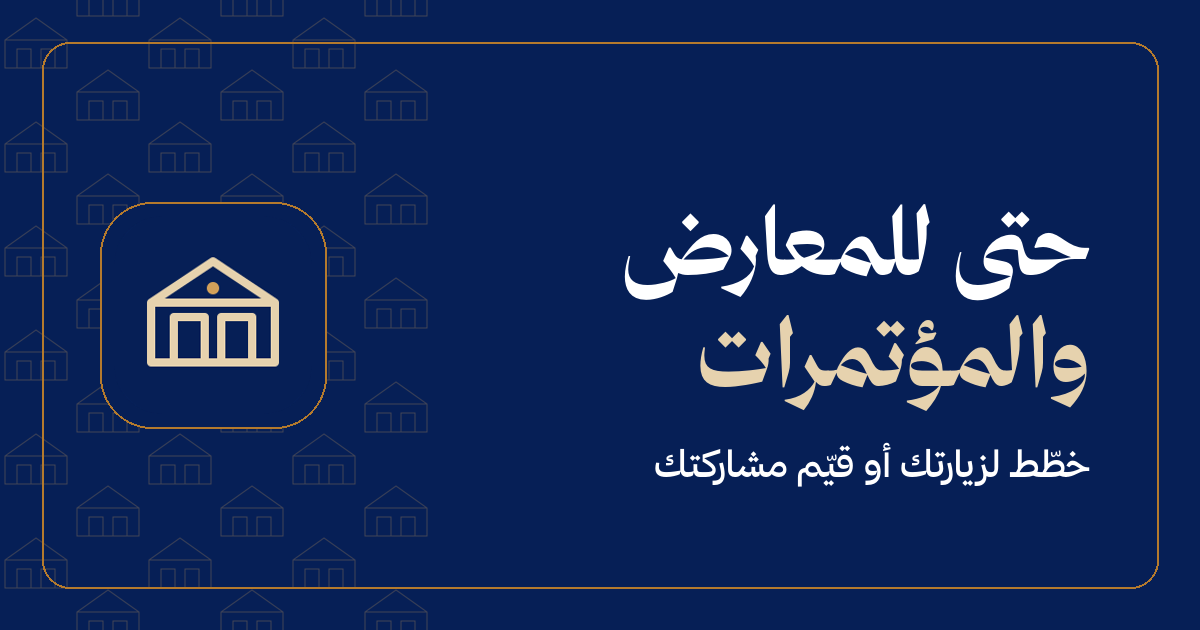
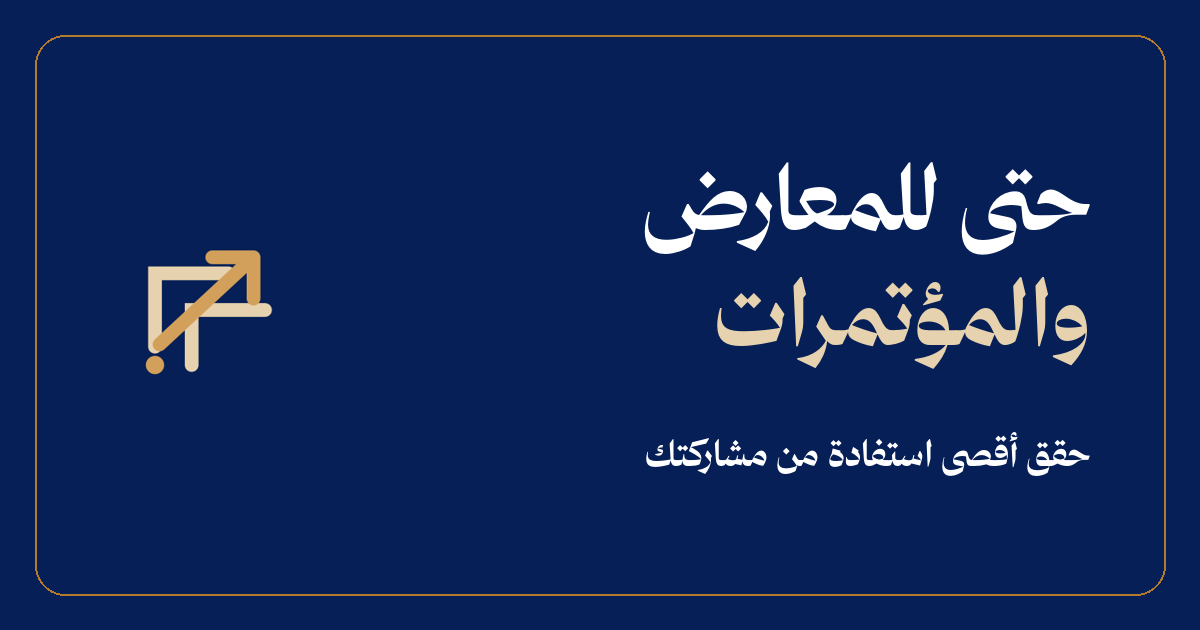
Center exhibitions platform on visitor and exhibitor outcomes with visual identity

diff --git a/exhibitions/index.html b/exhibitions/index.html
@@ -5,35 +5,32 @@
 <meta name="viewport" content="width=device-width, initial-scale=1">
 <meta name="theme-color" content="#061f56">
 <title>حتى للمعارض والمؤتمرات</title>
-<meta name="description" content="اكتشف المعارض والمؤتمرات، قيّم الزيارة أو المشاركة كعارض، وجهز خطتك قبل الفعالية.">
+<meta name="description" content="حقق أقصى استفادة من المعارض والمؤتمرات. قيّم مشاركتك زائرًا أو عارضًا وحوّل النتيجة إلى خطة عمل.">
 <meta property="og:title" content="حتى للمعارض والمؤتمرات">
 <meta property="og:description" content="من اختيار الفعالية إلى متابعة نتائجها.">
 <meta property="og:url" content="https://almohammdin.github.io/services/exhibitions/">
-<meta property="og:image" content="https://almohammdin.github.io/services/exhibitions/social.png">
+<meta property="og:image" content="https://almohammdin.github.io/services/exhibitions/social.png?v=2">
 <meta name="twitter:card" content="summary_large_image">
-<meta name="twitter:image" content="https://almohammdin.github.io/services/exhibitions/social.png">
+<meta name="twitter:image" content="https://almohammdin.github.io/services/exhibitions/social.png?v=2">
 <link rel="icon" href="logo.svg">
 <link rel="stylesheet" href="../assets/hatta/services.css">
-<link rel="stylesheet" href="style.css">
-<script src="app.js" defer></script>
+<link rel="stylesheet" href="style.css?v=2">
+<script src="app.js?v=2" defer></script>
 </head>
 <body>
 <a class="skip-link" href="#main">انتقل للمحتوى</a>
-<header class="site-header"><div class="shell header-inner"><a href="../" aria-label="حتى لحلول الأعمال"><img src="../assets/hatta/logo.webp" alt="حتى لحلول الأعمال" width="104"></a><nav aria-label="أقسام المنصة"><a href="#calendar">التقويم</a><a href="#assessment">التقييم</a><a href="#knowledge">مركز المعرفة</a><a href="#toolkit">الأدوات</a></nav></div></header>
+<header class="site-header"><div class="shell header-inner"><a href="../" aria-label="حتى لحلول الأعمال"><img src="../assets/hatta/logo.webp" alt="حتى لحلول الأعمال" width="104"></a><nav aria-label="أقسام المنصة"><a href="#paths">ابدأ من هنا</a><a href="#assessment">تقييم المشاركة</a><a href="#knowledge">مركز المعرفة</a><a href="#toolkit">الأدوات</a></nav></div></header>
 <main id="main">
 <div class="shell">
-<section class="intro">
-<div><div class="eyebrow">إحدى أدوات حتى</div><h1>حتى للمعارض<br>والمؤتمرات</h1><p>اختر الفعالية التي تخدم هدفك، وجهز خطتك قبل الحضور، وتابع النتائج بعد العودة.</p><a class="action primary" href="#calendar">استكشف التقويم ←</a></div>
-<div class="hero-art"><img src="logo.svg" width="154" height="154" alt=""><div>اختيار الفعالية <span>←</span> التخطيط <span>←</span> المتابعة</div></div>
-</section>
+<section class="intro"><div><div class="platform-sign"><img src="logo.svg" width="64" height="64" alt="شعار منصة حتى للمعارض والمؤتمرات"><span>حتى للمعارض والمؤتمرات</span></div><h1>كل مشاركة<br>تبدأ بهدف.</h1><p>حقق أقصى استفادة من المعارض والمؤتمرات. قيّم قرارك، جهز خطتك، وحوّل اللقاءات والمعرفة إلى نتائج.</p><a href="#paths" class="action primary">اختر مسار مشاركتك ←</a></div><div class="hero-art"><span class="eyebrow">رحلتك إلى مشاركة مثمرة</span><div class="journey"><div><b>01</b><span>قبل الفعالية<strong>هدف وقرار وخطة</strong></span></div><div><b>02</b><span>أثناء الفعالية<strong>لقاءات وتجارب ومعرفة</strong></span></div><div><b>03</b><span>بعد الفعالية<strong>متابعة وقياس النتائج</strong></span></div></div></div></section>
+<div class="path-heading" id="paths"><span class="eyebrow">ابدأ من هدف مشاركتك</span><h2>كيف ستشارك؟</h2><p>مساران يساعدانك على اتخاذ القرار وتجهيز خطة قابلة للتطبيق.</p></div>
 <div class="tiles roles">
-<article><span class="eyebrow">مسار الزائر</span><h2>خطّط لزيارتك</h2><p>قيّم الفعالية حسب هدفك، واختر الجهات والجلسات التي تستحق وقتك.</p><button class="action primary" data-start="visitor">ابدأ تقييم الزيارة ←</button></article>
-<article><span class="eyebrow">مسار العارض</span><h2>قيّم مشاركتك كعارض</h2><p>ادرس الجمهور والتكلفة، وقارن خيارات المشاركة قبل حجز الجناح.</p><button class="action secondary" data-start="exhibitor">ابدأ تقييم المشاركة ←</button></article>
+<article><img class="role-illustration" src="visitor.svg" alt="رسم زائر يراجع خطة لقاءاته"><span class="eyebrow">01 / الزائر</span><h2>استفد أكثر من زيارتك</h2><p>هل تستحق الفعالية وقتك وتكلفة رحلتك؟ اكتشف مدى ملاءمتها لهدفك وحدد أولويات الزيارة.</p><ul><li>تقييم ملاءمة الجهات والجلسات</li><li>تحديد ما يحتاج إلى تحقق</li><li>خطة قبل الزيارة وأثناءها وبعدها</li></ul><button class="action primary" data-start="visitor">حلّل مشاركتك زائرًا ←</button><small>5 أسئلة · نتيجة وخطة قابلة للمشاركة</small></article>
+<article><img class="role-illustration" src="exhibitor.svg" alt="رسم جناح معرض ومؤشرات نتائج المشاركة"><span class="eyebrow">02 / العارض</span><h2>اجعل مشاركتك مدروسة</h2><p>هل يناسبك حجز جناح؟ قيّم الجمهور والجاهزية والتكلفة، وقارن خيارات المشاركة.</p><ul><li>تقييم فرص الوصول إلى العملاء</li><li>حساب الصفقات اللازمة لتغطية التكلفة</li><li>خطوات لتحسين استعداد الفريق</li></ul><button class="action primary" data-start="exhibitor">حلّل مشاركتك عارضًا ←</button><small>5 أسئلة · توصية وحاسبة وخطة عمل</small></article>
 </div>
-<section id="calendar"><div class="eyebrow">01 / اكتشاف</div><h2>تقويم الفعاليات والمناسبات</h2><p>اختيارات من السعودية والعالم. تحقق من موعد النسخة وشروط الدخول لدى المنظم.</p>
-<div class="filters"><label>البحث<input id="query" type="search" placeholder="الاسم أو القطاع أو المدينة"></label><label>النوع<select id="kind"><option value="">جميع الأنواع</option><option>معرض</option><option>مؤتمر</option><option>منتدى</option><option>ورشة عمل</option><option>مهرجان</option><option>مناسبة</option></select></label><label>الدولة<select id="country"><option value="">جميع الدول</option></select></label><label>الشهر<select id="month"><option value="">جميع الأشهر</option></select></label></div>
-<p id="calendar-count" role="status"></p><div class="tiles three" id="events"></div></section>
-<section id="assessment"><div class="eyebrow">02 / القرار والخطة</div><h2>مصفوفة الزيارة والمشاركة</h2><p>أجب عن 5 أسئلة حسب هدفك. تظهر ملاءمة الفعالية وتغطية الأدلة بشكل منفصل. تحفظ المسودة على هذا الجهاز.</p>
+<section class="visual-examples"><span class="eyebrow">من السؤال إلى خطوة عملية</span><h2>كيف تستفيد من النتيجة؟</h2><div class="tiles"><article><h3>صاحب مقهى يزور معرض معدات</h3><p>هدفه اختيار مورد. يبدأ بقائمة جهات، ثم يرتب اللقاءات، ويعود بعروض قابلة للمقارنة.</p><div class="example-flow"><span><b>5</b>موردين للمقارنة</span><span><b>3</b>لقاءات مستهدفة</span><span><b>2</b>عرضي سعر</span></div><button class="action secondary" data-demo="visitor">جرّب مثال الزائر ←</button></article><article><h3>شركة تبحث عن موزعين</h3><p>تراجع الجمهور والتكلفة قبل حجز الجناح، ثم تحدد الفرص التي تحتاج إلى تحقيقها.</p><div class="example-flow"><span><b>60,000</b>⃁ تكلفة مفترضة</span><span><b>4</b>صفقات للتعادل</span><span><b>20</b>فرصة مؤهلة</span></div><button class="action secondary" data-demo="exhibitor">جرّب مثال العارض ←</button></article></div><small>أمثلة تعليمية بافتراضات توضيحية. تتغير النتائج حسب بياناتك.</small></section>
+
+<section id="assessment"><div class="eyebrow">التقييم والخطة</div><h2>مصفوفة الزيارة والمشاركة</h2><p>أجب عن 5 أسئلة حسب هدفك. تظهر ملاءمة الفعالية وتغطية الأدلة بشكل منفصل. تحفظ المسودة على هذا الجهاز.</p>
 <div class="panel">
 <form id="wizard">
 <div class="filters"><label>صفة المشاركة<select id="role"><option value="visitor">زائر</option><option value="exhibitor">عارض</option></select></label><label>اسم الفعالية<input id="event-name" required maxlength="120" placeholder="مثال: معرض متخصص"></label><label>نطاق التقييم<input id="scope" maxlength="100" placeholder="الفعالية كاملة أو جزء من البرنامج"></label><label>هدف المشاركة<select id="goal"></select></label><label>رابط الفعالية <small>اختياري</small><input id="event-url" type="url" placeholder="https://"></label></div>
@@ -71,6 +68,22 @@
 <article><h3>تسجيل اللقاءات</h3><p>ZXing يقرأ رموز QR عبر المتصفح، وTesseract.js يستخرج النص من الصور. راجع أسماء الأشخاص والشركات بعد الاستخراج.</p><a href="https://github.com/zxing-js/browser">ZXing ↗</a> · <a href="https://github.com/naptha/tesseract.js">Tesseract.js ↗</a></article>
 <article><h3>متابعة الفرص</h3><p>حوّل نتائج اللقاءات إلى مهام في مسراح، أو استكشف selXP لتسجيل الفرص البيعية ومتابعتها ميدانيًا.</p><a href="https://almohammdin.github.io/Mesraah/">مسراح ↗</a> · <a href="https://selxp.com/">selXP ↗</a></article>
 </div></section>
-</div></main>
-<footer class="shell site-footer"><a href="../#tools">أدوات حتى ←</a><span>حتى لحلول الأعمال · نايف المحمدي</span></footer>
+<section id="calendar"><div class="eyebrow">مصادر مساندة للمشاركة</div><h2>تقويم الفعاليات والمناسبات</h2><p>اختيارات من السعودية والعالم. تحقق من موعد النسخة وشروط الدخول لدى المنظم.</p>
+<div class="filters"><label>البحث<input id="query" type="search" placeholder="الاسم أو القطاع أو المدينة"></label><label>النوع<select id="kind"><option value="">جميع الأنواع</option><option>معرض</option><option>مؤتمر</option><option>منتدى</option><option>ورشة عمل</option><option>مهرجان</option><option>مناسبة</option></select></label><label>الدولة<select id="country"><option value="">جميع الدول</option></select></label><label>الشهر<select id="month"><option value="">جميع الأشهر</option></select></label></div>
+<p id="calendar-count" role="status"></p><div class="tiles three" id="events"></div></section></div></main>
+<footer class="footer"><div class="container footer-shell">
+  <div class="footer-main">
+    <div class="footer-brand"><a class="hatta-home" href="https://almohammdin.github.io/services/" aria-label="حتى لحلول الأعمال"><svg class="hatta-wordmark" viewBox="134 149 746 269" role="img" aria-label="حتى لحلول الأعمال"><image href="https://almohammdin.github.io/hatta-brand-guide/assets/hatta-logo.webp" width="1000" height="526"/></svg></a><span class="naif-wordmark"><img src="https://almohammdin.github.io/hatta-brand-guide/assets/naif-signature.webp" alt="نايف المحمدي"></span></div>
+    <div class="footer-social" dir="ltr">
+      <div class="footer-links" aria-label="حسابات التواصل">
+        <a href="https://x.com/almohammdin" target="_blank" rel="noopener" aria-label="X" title="X"><span class="social-icon"><svg viewBox="0 0 24 24" aria-hidden="true"><path class="brand-fill" d="M4.4 3h4.8l3.8 5.1L17.5 3H20l-5.9 6.9L20.5 21h-4.8l-4.2-5.7L6.6 21H4l6.3-7.5L4.4 3Zm3.7 2 8.5 14h1.8L9.9 5H8.1Z"/></svg></span></a>
+        <a href="https://www.linkedin.com/in/almohammdin/" target="_blank" rel="noopener" aria-label="LinkedIn" title="LinkedIn"><span class="social-icon"><svg viewBox="0 0 24 24" aria-hidden="true"><path class="brand-fill" d="M5.2 8.4h3.2V19H5.2V8.4Zm1.6-5.2a1.9 1.9 0 1 1 0 3.8 1.9 1.9 0 0 1 0-3.8Zm3.8 5.2h3.1v1.5h.1c.5-.8 1.6-1.8 3.5-1.8 3.3 0 4 2.2 4 5.1V19H18v-5.2c0-1.2 0-2.8-1.8-2.8s-2 1.3-2 2.7V19h-3.3V8.4Z"/></svg></span></a>
+        <a href="https://www.snapchat.com/add/almohammdin" target="_blank" rel="noopener" aria-label="Snapchat" title="Snapchat"><span class="social-icon"><svg viewBox="0 0 24 24" aria-hidden="true"><path class="brand-fill" d="M8.2 16.9c.8.3 1.1.7 1.3 1.1.7-.1 1.5-.2 2.5-.2s1.8.1 2.5.2c.2-.4.5-.8 1.3-1.1 1.2-.4 2.1-1 2.5-1.6-1.9-.7-2.1-2.3-2.1-4.7 0-2.7-1.7-4.5-4.2-4.5s-4.2 1.8-4.2 4.5c0 2.4-.2 4-2.1 4.7.4.6 1.3 1.2 2.5 1.6Z"/></svg></span></a>
+        <a href="https://linktr.ee/almohammdin" target="_blank" rel="noopener" aria-label="Linktree" title="Linktree"><span class="social-icon"><svg viewBox="0 0 24 24" aria-hidden="true"><path class="brand-fill" d="M13.736 5.852 17.644 2l1.92 1.92-3.852 3.736h5.644v2.736h-5.66l3.868 3.752-1.92 1.92-5.276-5.28-5.276 5.28-1.92-1.92 3.868-3.752H3.38V7.656h5.644L5.172 3.92 7.092 2l3.932 3.852V0h2.712v5.852ZM11.024 24v-8.604h2.712V24h-2.712Z"/></svg></span></a>
+      </div>
+      <a class="social-handle" href="https://linktr.ee/almohammdin" target="_blank" rel="noopener">@almohammdin</a>
+    </div>
+  </div>
+  <div class="footer-bottom"><span class="footer-privacy">حتى للمعارض والمؤتمرات · مستشار الحوكمة وتطوير الأعمال</span><b>v2.0</b></div>
+</div></footer>
 </body></html>

diff --git a/exhibitions/style.css b/exhibitions/style.css
@@ -2,3 +2,7 @@ html{scroll-padding-top:78px}section{scroll-margin-top:0}h1,h2,h3,p{margin-block
 @media(max-width:730px){.intro,.tiles.three{grid-template-columns:1fr}.hero-art img{width:85px;height:85px;margin-block:12px}.hero-art{gap:9px}.site-header img{width:76px}.header-inner{gap:10px}.site-header nav{font-size:12px}.shell{width:calc(100% - 28px)}}
 @media(max-width:480px){.tiles.roles{grid-template-columns:1fr}.hero-art{display:none}}
 @media print{.site-header,.site-footer,.intro,.roles,#calendar,#knowledge,#toolkit,#wizard,#result .controls,#compare{display:none!important}#assessment{margin:0!important}.panel{border:0;padding:0}#result{border:0;margin:0;padding:0}}
+
+.platform-sign{display:flex;align-items:center;gap:12px;color:var(--navy);font-weight:700}.intro h1{font-size:clamp(42px,5.5vw,72px)}.hero-art{align-content:center;justify-items:stretch;padding:40px}.hero-art .eyebrow{color:#e6d2ae}.journey{display:grid;gap:23px}.journey>div{display:flex;gap:18px;align-items:center}.journey b{display:grid;place-items:center;border:1px solid #d2a05a;border-radius:50%;width:52px;height:52px;color:#e6d2ae}.journey strong{display:block;color:#fff;font-size:20px}.journey span{color:#c2cce0;font-size:13px}.path-heading{margin-block:35px 22px}.roles article{padding:32px;position:relative;overflow:hidden;display:flex;flex-direction:column;background:linear-gradient(140deg,#fff,#f7f3eb);border-top:0;border:1px solid #d8c19e}.role-illustration{width:210px;align-self:center;height:158px;object-fit:contain;margin-bottom:10px}.roles h2{font-size:32px}.roles p{font-size:18px;max-width:38ch}.roles ul{padding-inline-start:20px;margin-block:3px 23px;color:#526077}.roles .action{width:100%;min-height:58px;font-size:18px;margin-top:auto}.roles small{text-align:center;color:#657084;margin-top:12px}.example-flow{display:flex;gap:10px;margin-block:22px}.example-flow span{flex:1;text-align:center;font-size:12px;background:#f1efe9;border-radius:12px;padding:12px 3px}.example-flow b{display:block;color:var(--navy);font-size:26px}.footer{width:100%;background:#f1efe9;margin-top:55px;padding:35px 0 15px}.footer-shell{width:min(1120px,calc(100% - 40px));margin:auto}.footer-main,.footer-brand,.footer-links{display:flex;align-items:center;gap:22px}.footer-main{justify-content:space-between}.hatta-wordmark{width:100px;height:50px}.naif-wordmark img{width:130px;max-height:70px;object-fit:contain}.footer-links{gap:10px}.social-icon{display:grid;place-items:center;width:38px;height:38px;border:1px solid #c4b498;border-radius:50%}.social-icon svg{width:22px;fill:var(--navy)}.social-handle{display:block;text-align:center;margin-top:8px}.footer-bottom{display:flex;justify-content:space-between;border-top:1px solid var(--line);padding-top:15px;margin-top:20px;font-size:12px}
+@media(max-width:600px){.tiles.roles,.visual-examples .tiles{grid-template-columns:1fr}.roles article{padding:24px}.footer-main{flex-direction:column}.hero-art{display:none}.intro{margin-top:20px}.intro>div:first-child{padding:26px}.role-illustration{width:180px;height:135px}.roles h2{font-size:28px}}
+@media print{.visual-examples,.path-heading,.footer{display:none!important}}

diff --git a/exhibitions/app.js b/exhibitions/app.js
@@ -248,3 +248,9 @@ byId('example').addEventListener('click',() => {
 renderCalendar();
 loadRole(role);
 renderComparison();
+
+document.querySelectorAll('[data-demo]').forEach(button => button.addEventListener('click',() => {
+  loadRole(button.dataset.demo);
+  byId('example').click();
+  byId('result').scrollIntoView({behavior:'smooth'});
+}));
